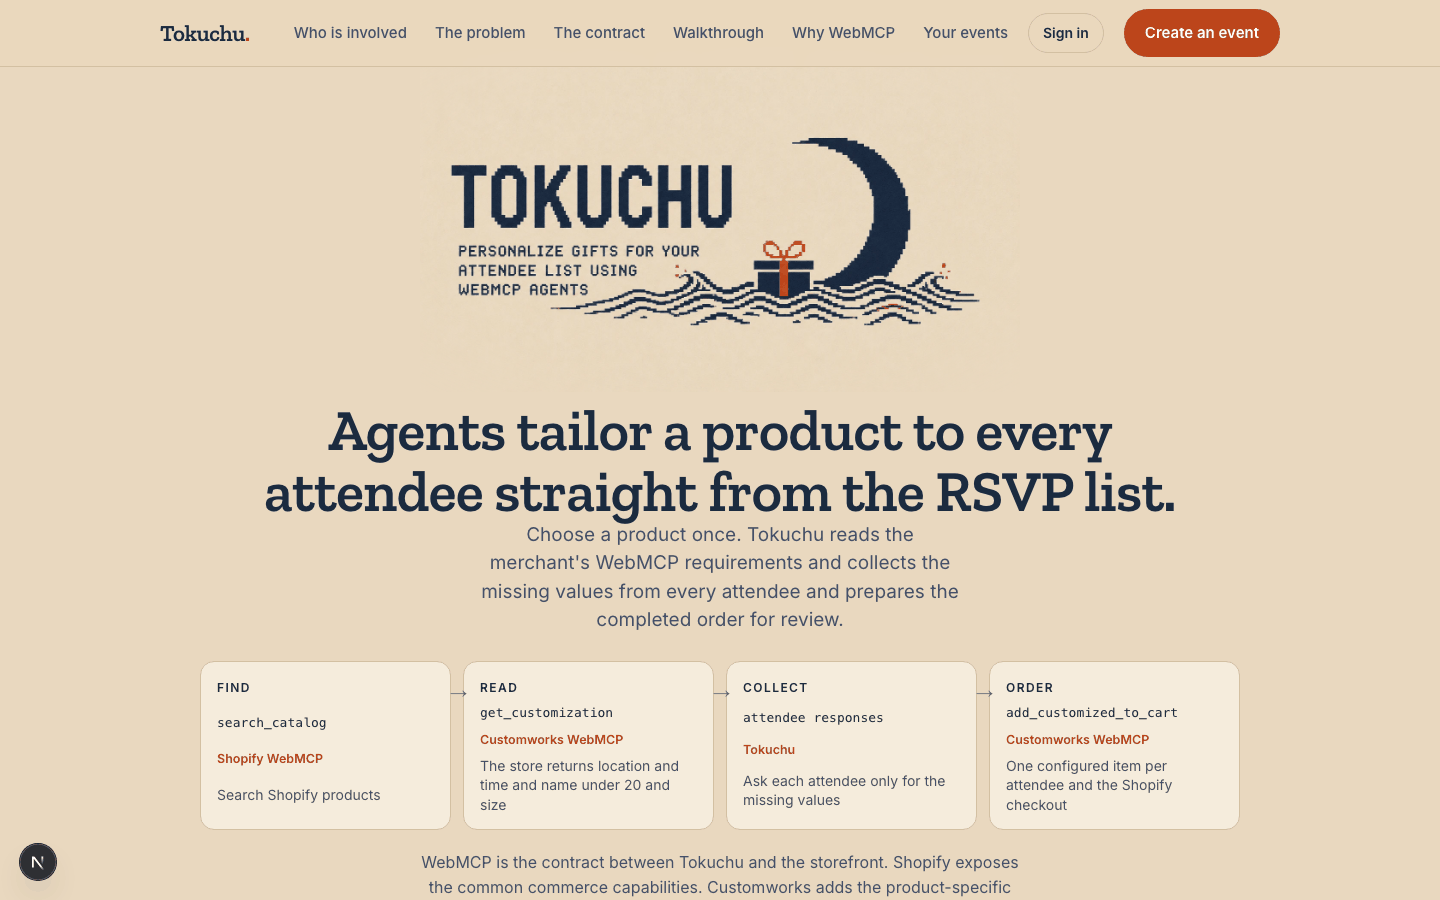
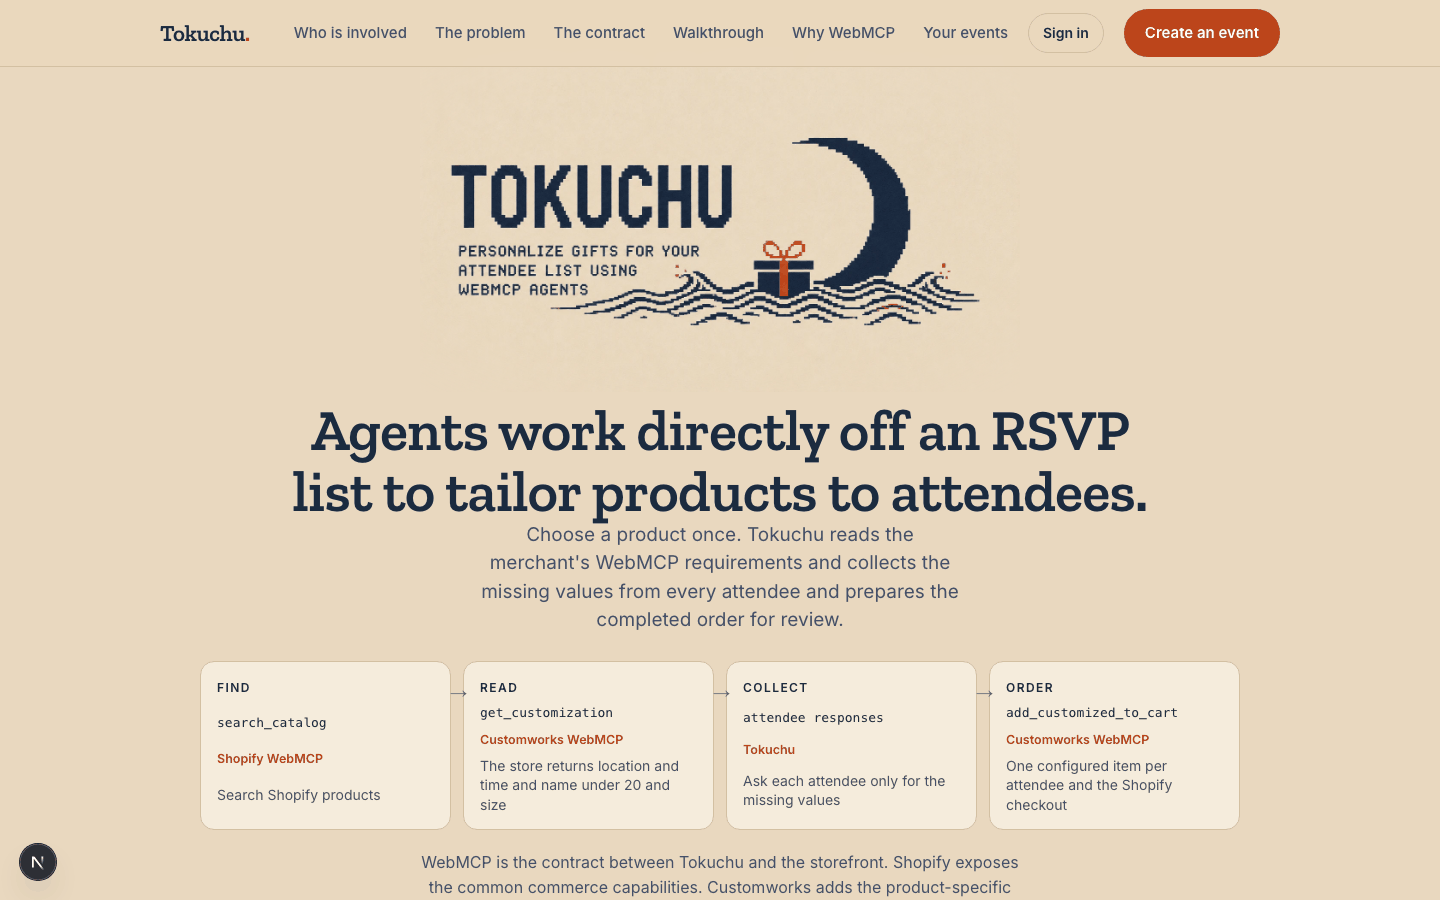
feat(home): state the heading in the owner's words

Changed region(s): [[0.1875, 0.4356, 0.8125, 0.5911]]

diff --git a/src/app/page.tsx b/src/app/page.tsx
@@ -115,7 +115,7 @@ export default async function Page() {
         <section className="hero">
           <div className="wrap">
             <img className="banner hero-banner" src="/media/tokuchu-banner.webp" alt="Tokuchu. Personalize gifts for your attendee list using WebMCP agents" data-testid="banner" />
-            <h1>Agents tailor a product to every attendee straight from the RSVP list.</h1>
+            <h1>Agents work directly off an RSVP list to tailor products to attendees.</h1>
             <p className="sub">Choose a product once. Tokuchu reads the merchant's WebMCP requirements and collects the missing values from every attendee and prepares the completed order for review.</p>
             <ol className="chain" data-testid="chain">
               {CHAIN.map((c) => (
